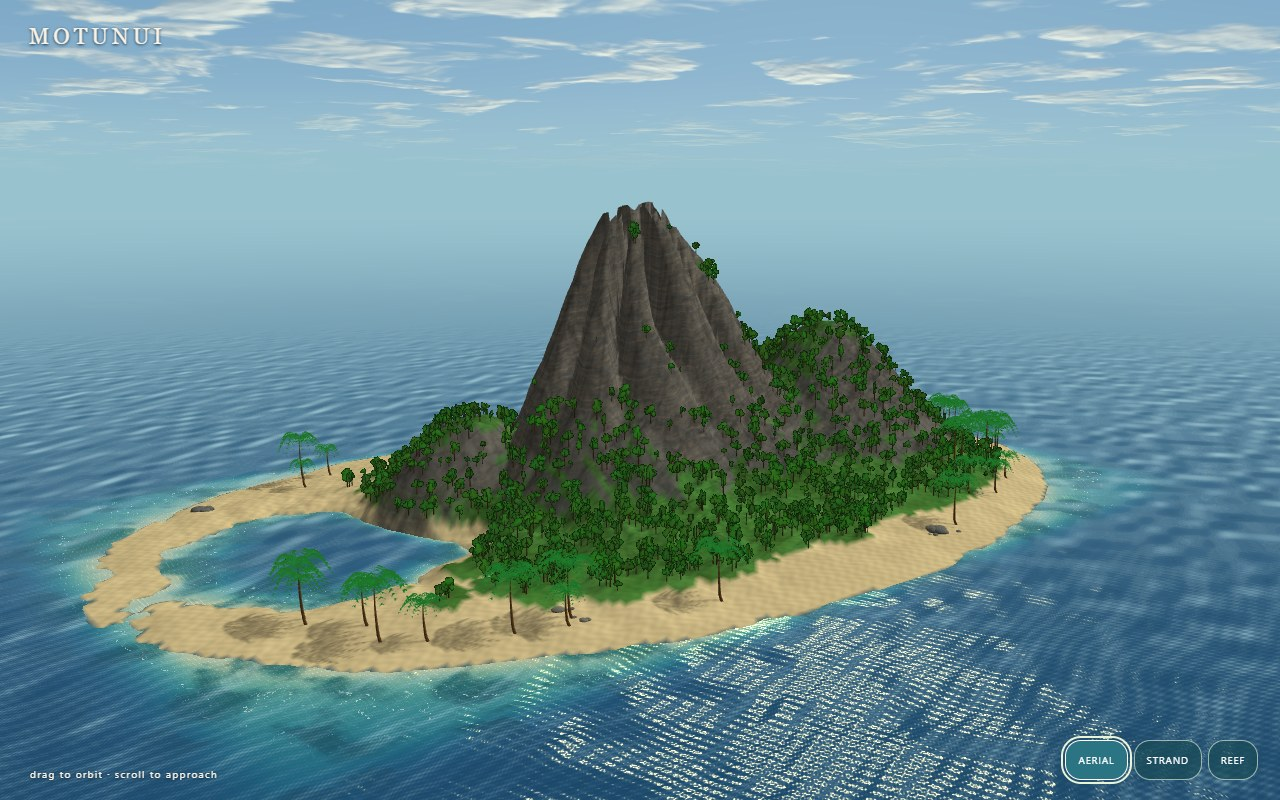
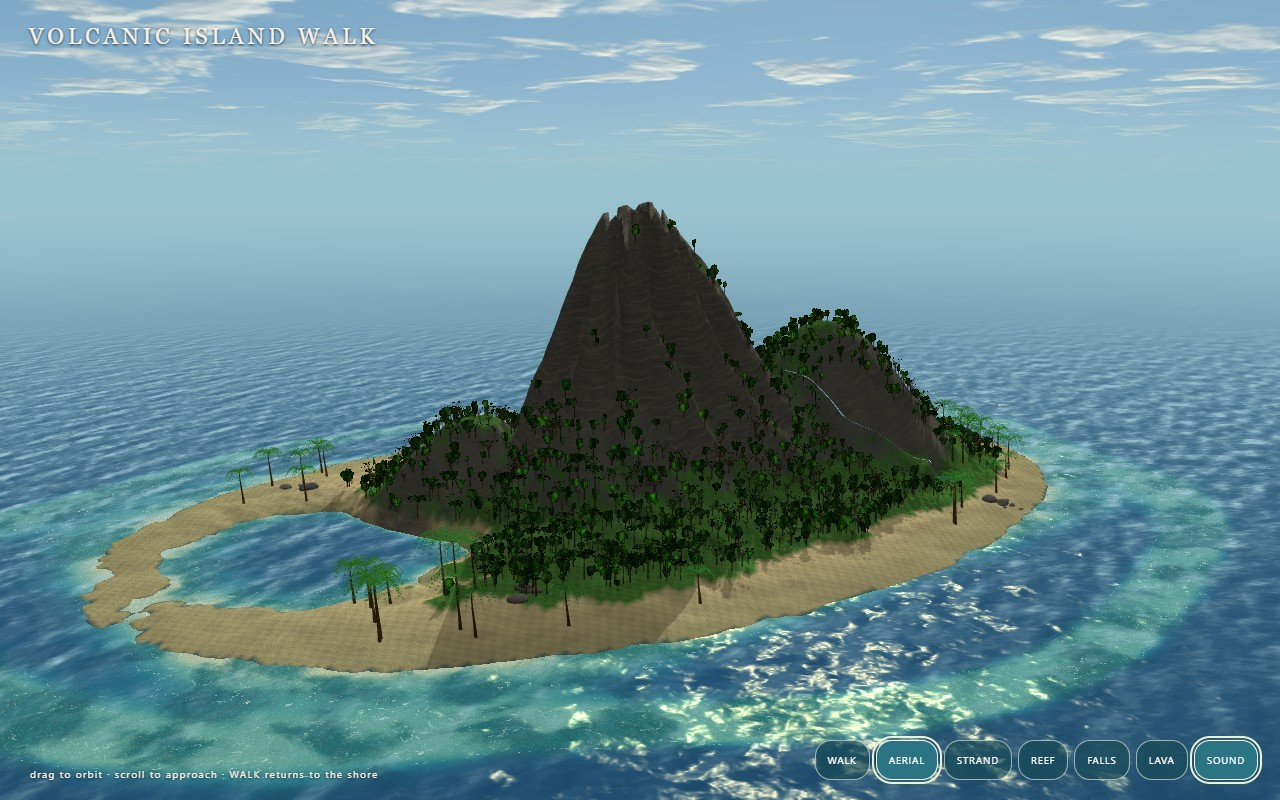
Repair island startup and ground the falls and lava in their terrain

diff --git a/experiments/procedural-demo/procedural-demo.html b/experiments/procedural-demo/procedural-demo.html
@@ -101,7 +101,9 @@
     background: #123;
     color: #fff;
     font: 16px system-ui;
+    z-index: 4;
   }
+  #loading { position:fixed; inset:0; display:grid; place-items:center; color:#f7f2e8; background:#286779; font:14px system-ui; letter-spacing:.12em; z-index:3; }
   @media (max-width: 560px), (pointer: coarse) {
     p {
       bottom: 76px;
@@ -134,13 +136,15 @@
   </nav>
   <div id="touch"><div class="pad" id="movePad">MOVE</div><div class="pad" id="lookPad">LOOK</div></div>
 </div>
-<div id="error">This island needs WebGL 2.</div>
+<div id="loading">Generating island…</div><div id="error">This island needs WebGL 2.</div>
 <script>
   (() => {
+    requestAnimationFrame(() => setTimeout(() => { try {
     const canvas = document.querySelector("canvas"),
       gl = canvas.getContext("webgl2", { antialias: true, depth: true }),
       error = document.querySelector("#error");
     if (!gl) {
+      document.querySelector("#loading").style.display = "none";
       error.style.display = "grid";
       return;
     }
@@ -199,11 +203,13 @@ layout(location=0)in vec3 p;layout(location=1)in vec2 uv;uniform mat4 lightM;out
     const shadowLeafF = `#version 300 es
 precision highp float;in vec2 vuv;uniform sampler2D atlas;void main(){if(texture(atlas,vuv).a<.35)discard;}`;
     const flowV = `#version 300 es
-precision highp float;layout(location=0)in vec3 p;layout(location=1)in vec3 uv;uniform mat4 m;out vec3 v;void main(){v=uv;gl_Position=m*vec4(p,1.);}`;
+precision highp float;layout(location=0)in vec3 p;layout(location=1)in vec3 uv;uniform mat4 m;out vec3 v;out vec3 world;void main(){v=uv;world=p;gl_Position=m*vec4(p,1.);}`;
     const flowF = `#version 300 es
-precision highp float;in vec3 v;uniform float t;out vec4 o;float h(vec2 p){return fract(sin(dot(p,vec2(127.1,311.7)))*43758.5);}float n(vec2 p){vec2 i=floor(p),f=fract(p);f=f*f*(3.-2.*f);return mix(mix(h(i),h(i+vec2(1,0)),f.x),mix(h(i+vec2(0,1)),h(i+1.),f.x),f.y);}void main(){float edge=smoothstep(0.,.12,v.y)*smoothstep(1.,.84,v.y);if(v.z<.5){float r=n(vec2(v.x*8.-t*1.8,v.y*13.+t*.35));vec3 c=mix(vec3(.05,.22,.26),vec3(.72,.95,1.),r*.75);o=vec4(c,edge*(.38+.48*r));}else{float plate=n(vec2(v.x*5.-t*.16,v.y*8.+t*.08));float crack=smoothstep(.63,.82,n(vec2(v.x*14.-t*.6,v.y*11.+t*.28)));vec3 crust=mix(vec3(.035,.018,.01),vec3(.18,.055,.018),plate);vec3 fire=mix(vec3(.9,.045,.005),vec3(1.,.72,.08),n(vec2(v.x*31.-t*1.6,v.y*17.)));o=vec4(mix(crust,fire,crack),edge);}}`;
+precision highp float;in vec3 v;in vec3 world;uniform float t;out vec4 o;
+float h(vec2 p){return fract(sin(dot(p,vec2(127.1,311.7)))*43758.5);}float n(vec2 p){vec2 i=floor(p),f=fract(p);f=f*f*(3.-2.*f);return mix(mix(h(i),h(i+vec2(1,0)),f.x),mix(h(i+vec2(0,1)),h(i+1.),f.x),f.y);}
+void main(){float edge=smoothstep(0.,.10,v.y)*smoothstep(1.,.90,v.y);float vein=n(vec2(v.x*8.-t*1.7,v.y*18.+t*.35));if(v.z<.5){vec3 c=mix(vec3(.025,.17,.18),vec3(.72,.94,.91),vein);o=vec4(c,edge*(.30+.42*vein));}else if(v.z<1.5){float plate=n(vec2(v.x*5.-t*.16,v.y*8.+t*.08));float crack=smoothstep(.67,.87,n(vec2(v.x*14.-t*.6,v.y*11.+t*.28)));vec3 crust=mix(vec3(.035,.018,.01),vec3(.18,.055,.018),plate);vec3 fire=mix(vec3(.9,.045,.005),vec3(1.,.72,.08),n(vec2(v.x*31.-t*1.6,v.y*17.)));o=vec4(mix(crust,fire,crack),edge);}else if(v.z<2.5){float thread=n(vec2(v.x*11.-t*2.6,v.y*31.+t*.45));float holes=smoothstep(.18,.38,n(vec2(v.x*5.+t*.12,v.y*9.)));vec3 c=mix(vec3(.34,.62,.63),vec3(.93,1.,.96),thread);o=vec4(c,edge*holes*(.18+.68*thread));}else if(v.z<3.5){vec2 impact=world.xz-vec2(-65.414,-47.414);float d=length(impact);float ripple=n(world.xz*2.7+vec2(t*.08,-t*.05));float foam=exp(-d*d*1.6)*smoothstep(.44,.71,n(impact*5.+t*.18));vec3 jade=mix(vec3(.012,.11,.105),vec3(.09,.31,.27),ripple);o=vec4(jade+vec3(.65,.78,.72)*foam,.80);}else{float a=n(world.xz*.55),b=n(world.xz*1.35+3.);float ropes=.55+.45*sin(world.x*4.2+world.z*1.8+6.*a)+.22*sin(world.z*8.-world.x*2.+b*5.);float crest=smoothstep(.64,.88,ropes);float crack=smoothstep(.90,.975,n(world.xz*1.7+vec2(t*.03,0.))+.18*ropes);vec3 rock=mix(vec3(.075,.075,.07),vec3(.34,.33,.30),crest*.72);rock+=vec3(.10)*pow(max(ropes,0.),9.);o=vec4(mix(rock,vec3(1.,.20,.018),crack*.48),1.);}}`;
     const spriteV = `#version 300 es
-precision highp float;layout(location=0)in vec4 p;layout(location=1)in vec3 c;uniform mat4 m;out vec3 col;void main(){col=c;gl_Position=m*vec4(p.xyz,1.);gl_PointSize=p.w;}`;
+precision highp float;layout(location=0)in vec4 p;layout(location=1)in vec3 c;uniform mat4 m;uniform vec2 viewport;uniform float tanHalfFov;out vec3 col;void main(){col=c;gl_Position=m*vec4(p.xyz,1.);gl_PointSize=p.w*viewport.y/(2.*tanHalfFov*max(.01,gl_Position.w));}`;
     const spriteF = `#version 300 es
 precision highp float;in vec3 col;out vec4 o;void main(){vec2 q=gl_PointCoord*2.-1.;float r=dot(q,q);float a=smoothstep(1.,.12,r)*(1.-.22*sin(q.x*13.+q.y*9.));if(a<.03)discard;o=vec4(col,a*.22);}`;
     let S, M, Q, F, PZ, SD, SDL;
@@ -217,6 +223,7 @@ precision highp float;in vec3 col;out vec4 o;void main(){vec2 q=gl_PointCoord*2.
       SDL = program(shadowLeafV, shadowLeafF);
     } catch (e) {
       error.textContent = "Shader error: " + e;
+      document.querySelector("#loading").style.display = "none";
       error.style.display = "grid";
       return;
     }
@@ -686,18 +693,6 @@ precision highp float;in vec3 col;out vec4 o;void main(){vec2 q=gl_PointCoord*2.
       gl.LINEAR_MIPMAP_LINEAR,
     );
     gl.texParameteri(gl.TEXTURE_2D, gl.TEXTURE_MAG_FILTER, gl.LINEAR);
-    const shadowCanvas = document.createElement("canvas");
-    shadowCanvas.width = 512;
-    shadowCanvas.height = 512;
-    const shadowInk = shadowCanvas.getContext("2d");
-    shadowInk.fillStyle = "#fff";
-    shadowInk.fillRect(0, 0, 512, 512);
-    const shadowTexture = gl.createTexture();
-    gl.bindTexture(gl.TEXTURE_2D, shadowTexture);
-    gl.texParameteri(gl.TEXTURE_2D, gl.TEXTURE_MIN_FILTER, gl.LINEAR);
-    gl.texParameteri(gl.TEXTURE_2D, gl.TEXTURE_MAG_FILTER, gl.LINEAR);
-    gl.texParameteri(gl.TEXTURE_2D, gl.TEXTURE_WRAP_S, gl.CLAMP_TO_EDGE);
-    gl.texParameteri(gl.TEXTURE_2D, gl.TEXTURE_WRAP_T, gl.CLAMP_TO_EDGE);
     let leafP = [],
       leafUV = [],
       leafC = [];
@@ -740,13 +735,14 @@ precision highp float;in vec3 col;out vec4 o;void main(){vec2 q=gl_PointCoord*2.
       }
     }
     function lowForestSprays(x, y, z, h, seed, tint) {
-      // Four forked limbs and sixteen small atlas clusters replace a single whole-tree card.
-      for (let branch = 0; branch < 4; branch++) {
-        let a = seed * .31 + branch * 1.57 + noise(seed, branch) * .45,
-          root = [x, y + h * (.35 + .045 * (branch & 1)), z],
-          tip = [x + Math.cos(a) * h * .20, y + h * (.62 + .07 * (branch % 3)), z + Math.sin(a) * h * .20];
+      // Five radial anchors across three layers form a continuous lowland canopy, not isolated gloves.
+      for (let branch = 0; branch < 5; branch++) {
+        let a = seed * .31 + branch * 1.257 + noise(seed, branch) * .32,
+          layer = branch % 3,
+          root = [x, y + h * (.31 + .10 * layer), z],
+          tip = [x + Math.cos(a) * h * (.23 + .04 * layer), y + h * (.59 + .08 * layer), z + Math.sin(a) * h * (.23 + .04 * layer)];
         woodSegment(root, tip, h * .022, h * .009, [.11,.063,.025]);
-        leafSpray(tip, h * (.82 + .08 * (branch & 1)), seed + branch * 19, tint);
+        leafSpray(tip, h * (.72 + .08 * layer), seed + branch * 19, tint);
       }
     }
     function broadleafTrunk(x, y, z, h) {
@@ -782,7 +778,7 @@ precision highp float;in vec3 col;out vec4 o;void main(){vec2 q=gl_PointCoord*2.
           tri(b, c, d);
         }
     }
-    let leafRoots = [], localTreeCount = 0;
+    let leafRoots = [], localTreeCount = 0, lowForestCount = 0;
     for (let i = 0; i < 14000 && leafRoots.length < 2200; i++) {
       let x = (R() - 0.5) * 245,
         z = (R() - 0.5) * 158,
@@ -806,7 +802,7 @@ precision highp float;in vec3 col;out vec4 o;void main(){vec2 q=gl_PointCoord*2.
       if (walkingForest) {
         localTreeCount++;
         oakWord(x, y, z, h, i);
-      } else if (y < 28) {
+      } else if (y < 28 && lowForestCount++ < 650) {
         lowForestSprays(x, y, z, h, i, c);
       } else {
         // Only the non-walkable/distant canopy keeps larger generated atlas impostors.
@@ -829,45 +825,6 @@ precision highp float;in vec3 col;out vec4 o;void main(){vec2 q=gl_PointCoord*2.
       let y = gridHeight(x,z);
       if (y > 1.5) oakWord(x,y,z,h,seed);
     }
-    for (const root of leafRoots) {
-      let x = (root[0] / 300 + 0.5) * 512 + root[3] * 0.42,
-        z = (root[1] / 200 + 0.5) * 512 + root[3] * 0.28;
-      shadowInk.save();
-      shadowInk.translate(x, z);
-      shadowInk.rotate(-0.55);
-      shadowInk.fillStyle = "rgba(18,37,21,.25)";
-      shadowInk.beginPath();
-      shadowInk.ellipse(0, 0, root[2] * 3.0, root[2] * 1.0, 0, 0, 6.283);
-      shadowInk.fill();
-      shadowInk.restore();
-    }
-    shadowInk.fillStyle = "rgba(19,30,16,.54)";
-    shadowInk.beginPath();
-    for (let i = 0; i < pP.length; i += 9) {
-      for (let k = 0; k < 3; k++) {
-        let x = pP[i + k * 3],
-          y = pP[i + k * 3 + 1],
-          z = pP[i + k * 3 + 2],
-          ground = H(x, z),
-          sx = x + ((y - ground) * 0.55) / 0.77,
-          sz = z + ((y - ground) * 0.33) / 0.77,
-          px = (sx / 300 + 0.5) * 512,
-          pz = (sz / 200 + 0.5) * 512;
-        if (k === 0) shadowInk.moveTo(px, pz);
-        else shadowInk.lineTo(px, pz);
-      }
-      shadowInk.closePath();
-    }
-    shadowInk.fill();
-    gl.bindTexture(gl.TEXTURE_2D, shadowTexture);
-    gl.texImage2D(
-      gl.TEXTURE_2D,
-      0,
-      gl.RGBA,
-      gl.RGBA,
-      gl.UNSIGNED_BYTE,
-      shadowCanvas,
-    );
     let boulderGroups = 0,
       boulderCount = 0,
       stoneRoots = [];
@@ -938,11 +895,24 @@ precision highp float;in vec3 col;out vec4 o;void main(){vec2 q=gl_PointCoord*2.
         boulderCount++;
       }
     }
-    // Wet basalt makes the fall read as a small grotto rather than a floating sheet.
-    for (const [x, z, rx, ry, rz] of [[-62.8,-45.0,1.7,1.25,1.15],[-66.9,-46.7,1.25,.9,1.45],[-65.4,-49.8,1.65,1.1,1.0],[-68.6,-48.6,.9,.75,1.1]]) {
-      boulder(x, z, H(x,z) - .12, rx, ry, rz, -.055);
-      stoneRoots.push([x,z,Math.max(rx,rz)+.22]); boulderCount++;
+    function basaltBlock(x,z,y,rx,ry,rz,seed) {
+      let first=pP.length/3,sides=6+(seed%2),turn=seed*.73;
+      for(let ring=0;ring<2;ring++)for(let i=0;i<sides;i++){
+        let a=turn+i*6.283/sides,w=.78+.22*noise(seed+i*3,ring+5),r=ring?1.:.92;
+        let px=x+Math.cos(a)*rx*w*r+(ring?.16*Math.sin(seed+i):0),pz=z+Math.sin(a)*rz*w*r+(ring?.13*Math.cos(seed+i*2):0),py=y+(ring?ry*(.84+.16*noise(seed,i)):0);
+        let col=ring?[.22+.08*noise(px,pz),.23+.08*noise(pz,px),.20+.055*noise(px+7,pz)]:[.11,.12,.11];
+        pv([px,py,pz],norm([Math.cos(a),ring?.32:.04,Math.sin(a)]),col);
+      }
+      for(let i=0;i<sides;i++){let j=(i+1)%sides,a=first+i,b=first+j,c=first+sides+i,d=first+sides+j;tri(a,c,b);tri(b,c,d);}
     }
+    function fernSpray(x,y,z,seed) {
+      for(let i=0;i<9;i++){let a=seed+i*.698,len=.28+.12*Math.sin(seed+i*3),rise=.10+.10*(i%3),base=[x,y+.02,z],mid=[x+Math.cos(a)*len*.46,y+rise,z+Math.sin(a)*len*.46],tip=[x+Math.cos(a)*len,y+rise*.35,z+Math.sin(a)*len],sx=-Math.sin(a)*len*.13,sz=Math.cos(a)*len*.13;let a0=pv(base,[0,1,0],[.05,.22,.035]),a1=pv([mid[0]+sx,mid[1],mid[2]+sz],[0,.8,0],[.08,.35,.05]),a2=pv([mid[0]-sx,mid[1]-.025,mid[2]-sz],[0,.7,0],[.04,.18,.025]),a3=pv(tip,[0,.6,0],[.07,.31,.04]);tri(a0,a1,a2);tri(a1,a3,a2);}
+    }
+    // Fractured basalt headwall in the falls' D/A frame, leaving the curtain against real blocks.
+    for (const [s,k,w,h] of [[-.45,-3.3,1.15,4.0],[-.30,-2.15,1.05,4.8],[-.22,-1.05,.9,3.7],[-.34,1.05,.95,4.4],[-.25,2.15,1.08,4.9],[-.42,3.35,1.25,3.8]]) {
+      let x=-64-.7071*s+.7071*k,z=-46-.7071*s-.7071*k; basaltBlock(x,z,3.64,w,h,w*.72,Math.round((s+6)*17+(k+5)*9)); stoneRoots.push([x,z,w+.2]); boulderCount++;
+    }
+    for(let i=0;i<8;i++){let a=i*.785,x=-66.97+Math.cos(a)*3.0,z=-48.97+Math.sin(a)*2.05,ground=gridHeight(x,z);if(ground>3.98)fernSpray(x,ground,z,i*3.1);}
     // A charcoal, folded apron contains the narrow lava outlet at the exposed beach.
     for (const [x, z, rx, ry, rz] of [[-17,76,2.8,.42,1.45],[-22,80,3.1,.38,1.6],[-18,83,2.5,.32,1.35],[-23,84,2.0,.28,1.2]]) {
       boulder(x, z, H(x,z) - .13, rx, ry, rz, -.12);
@@ -962,6 +932,10 @@ precision highp float;in vec3 col;out vec4 o;void main(){vec2 q=gl_PointCoord*2.
       let x = v[0] * Math.cos(yaw) - v[2] * Math.sin(yaw), z = v[0] * Math.sin(yaw) + v[2] * Math.cos(yaw);
       return norm([x, v[1] * Math.cos(tilt) - z * Math.sin(tilt), v[1] * Math.sin(tilt) + z * Math.cos(tilt)]);
     }
+    function forkDirection(v, azimuth, lift) {
+      let reference = Math.abs(v[1]) > .8 ? [1,0,0] : [0,1,0], side = norm(cross(v, reference)), up = norm(cross(side, v));
+      return norm([v[0]*.58 + (side[0]*Math.cos(azimuth)+up[0]*Math.sin(azimuth))*lift, v[1]*.58 + (side[1]*Math.cos(azimuth)+up[1]*Math.sin(azimuth))*lift, v[2]*.58 + (side[2]*Math.cos(azimuth)+up[2]*Math.sin(azimuth))*lift]);
+    }
     function oakWord(x, y, z, h, seed) {
       let buds = [{ p: [x, y + h * .42, z], v: [0, 1, 0], l: h * .30, d: h * .022 }];
       // Tropical adaptation of the Astra bracket grammar: F[+X][-X][&X][^X], three rewrites.
@@ -970,7 +944,7 @@ precision highp float;in vec3 col;out vec4 o;void main(){vec2 q=gl_PointCoord*2.
         for (let k = 0; k < buds.length; k++) {
           let bud = buds[k], end = [bud.p[0] + bud.v[0] * bud.l, bud.p[1] + bud.v[1] * bud.l, bud.p[2] + bud.v[2] * bud.l];
           woodSegment(bud.p, end, bud.d, bud.d * .56, [.13, .075, .028]);
-          for (let turn of [-.72,.72,-1.58,1.58]) next.push({ p: end, v: rotateAbout(bud.v, turn + .16 * noise(seed + k * 3, generation + 2), .28 + .18 * noise(seed + 8, k + turn)), l: bud.l * .55, d: bud.d * .51 });
+          for (let turn of [-.72,.72,-1.58,1.58]) next.push({ p: end, v: forkDirection(bud.v, turn + .16 * noise(seed + k * 3, generation + 2), .52 + .14 * noise(seed + 8, k + turn)), l: bud.l * .55, d: bud.d * .51 });
           if (generation === 2) {
             let tint = [.44 + .20 * noise(seed, k), .52 + .22 * noise(seed + 4, k), .27 + .13 * noise(seed + 7, k)];
             leafSpray(end, h, seed + k * 13, tint);
@@ -979,56 +953,30 @@ precision highp float;in vec3 col;out vec4 o;void main(){vec2 q=gl_PointCoord*2.
         buds = next;
       }
     }
-    function downhill(start, count, stride) {
-      let path = [[start[0], H(start[0], start[1]) + .08, start[1]]], x = start[0], z = start[1];
-      for (let step = 0; step < count; step++) {
-        let best = null;
-        for (let k = 0; k < 12; k++) {
-          let a = k * Math.PI / 6, nx = x + Math.cos(a) * stride, nz = z + Math.sin(a) * stride, h = H(nx, nz);
-          if (!best || h < best.h) best = { x: nx, z: nz, h };
-        }
-        if (best.h > H(x, z) - .05) break;
-        x = best.x; z = best.z; path.push([x, best.h + .08, z]);
-        if (best.h < -.15) break;
-      }
-      return path;
-    }
-    function pathRibbon(path, width, color, lift = .04) {
-      for (let i = 0; i < path.length - 1; i++) {
-        let a = path[i], b = path[i + 1], dx = b[0] - a[0], dz = b[2] - a[2], l = Math.hypot(dx, dz) || 1, sx = -dz / l * width, sz = dx / l * width;
-        let v = [
-          pv([a[0] + sx, a[1] + lift, a[2] + sz], [0,1,0], color), pv([a[0] - sx, a[1] + lift, a[2] - sz], [0,1,0], color),
-          pv([b[0] + sx, b[1] + lift, b[2] + sz], [0,1,0], color), pv([b[0] - sx, b[1] + lift, b[2] - sz], [0,1,0], color),
-        ]; tri(v[0],v[2],v[1]); tri(v[1],v[2],v[3]);
-      }
-    }
-    function toSea(start, end, count) {
-      let path = [];
-      for (let i = 0; i <= count; i++) {
-        let t = i / count, x = start[0] * (1-t) + end[0] * t, z = start[1] * (1-t) + end[1] * t;
-        path.push([x, gridHeight(x,z) + .10, z]);
-      }
-      return path;
-    }
     const lavaPath = [[-10,8],[-10,16],[-10,24],[-10,32],[-12,40],[-14,48],[-14,56],[-18,64],[-20,72],[-20,80],[-20,84]].map(([x,z])=>[x,gridHeight(x,z)+.10,z]),
       fallsPath = [[-42,-14],[-48,-30],[-56,-38],[-64,-46],[-66,-48],[-69,-51],[-72,-54]].map(([x,z])=>[x,gridHeight(x,z)+.10,z]);
     let flowP=[],flowUV=[],flowI=[];
     function flowVertex(p,u,v,id){flowP.push(...p);flowUV.push(u,v,id);return flowP.length/3-1;}
     function flowStrip(path,width,id){let last=[],distance=0;for(let s=0;s<path.length-1;s++){let a=path[s],b=path[s+1],dx=b[0]-a[0],dz=b[2]-a[2],len=Math.hypot(dx,dz),count=Math.max(2,Math.ceil(len/.42));for(let k=0;k<=count;k++){if(s&&k===0)continue;let f=k/count,x=a[0]*(1-f)+b[0]*f,z=a[2]*(1-f)+b[2]*f,y=gridHeight(x,z)+.13,w=width*(.76+.18*Math.sin((distance+len*f)*.43));let sx=-dz/len*w,sz=dx/len*w, row=[flowVertex([x+sx,y,z+sz],distance+len*f,0,id),flowVertex([x-sx,y,z-sz],distance+len*f,1,id)];if(last.length){flowI.push(last[0],row[0],last[1],last[1],row[0],row[1]);}last=row;}distance+=len;}}
-    flowStrip(lavaPath,.95,1);
     flowStrip(fallsPath.slice(0,4),.82,0);
-    let lip=fallsPath[3],pool=[lip[0]-1.0,3.0,lip[2]-1.0],start=flowP.length/3,rows=18,cols=8;
+    // A continuous, rough pāhoehoe apron widens across the last 18m of the shore.
+    let apronStart=flowP.length/3,apronRows=18,apronRails=15;
+    for(let r=0;r<=apronRows;r++)for(let c=0;c<=apronRails;c++){let f=r/apronRows,u=c/apronRails,w=1.0+4.6*f,side=(u-.5)*2*w,cz=66+18.5*f,cx=-18.2-2.0*f+side+.42*Math.sin(f*9.+u*5.);let heave=.11+.27*Math.max(0,1-Math.abs(u-.5)*2)*(.35+.65*noise(cx*.35,cz*.35));flowVertex([cx,gridHeight(cx,cz)+heave,cz],f,u,4);}
+    for(let r=0;r<apronRows;r++)for(let c=0;c<apronRails;c++){let a=apronStart+r*(apronRails+1)+c,b=a+1,d=a+apronRails+1,e=d+1;flowI.push(a,d,b,b,d,e);}
+    // Drape the brighter upstream channel after its cooled apron.
+    flowStrip(lavaPath,.95,1);
+    let lip=fallsPath[3],pool=[-64-.7071*4.2,3.9,-46-.7071*4.2],start=flowP.length/3,rows=18,cols=8;
     for(let r=0;r<=rows;r++)for(let c=0;c<=cols;c++){
       let v=r/rows,u=c/cols,w=2.2*(.78+.22*Math.sin(v*7.));
       // D=(-.707,-.707), A=(.707,-.707): a compact 1.4m forward plunge.
       let forward=1.42*v,x=lip[0]-.7071*forward+(u-.5)*w*.7071,z=lip[2]-.7071*forward-(u-.5)*w*.7071,y=lip[1]+(pool[1]-lip[1])*v*v;
-      flowVertex([x,y,z],v,u,0);
+      flowVertex([x,y,z],v,u,2);
     }
     for(let r=0;r<rows;r++)for(let c=0;c<cols;c++){let a=start+r*(cols+1)+c,b=a+1,d=a+cols+1,e=d+1;flowI.push(a,d,b,b,d,e);}
-    // Local jade plunge pool.  It is an actual triangulated surface, not a particle disc.
-    let poolCenter=flowVertex([pool[0],pool[1]+.025,pool[2]],0,.5,0), poolRing=[];
-    for(let i=0;i<18;i++){let a=i*Math.PI*2/18,rr=1+.12*Math.sin(a*3);poolRing.push(flowVertex([pool[0]+Math.cos(a)*2.15*rr,pool[1]+.02,pool[2]+Math.sin(a)*1.4*rr],a/6.283,.5,0));}
-    for(let i=0;i<18;i++)flowI.push(poolCenter,poolRing[i],poolRing[(i+1)%18]);
+    // A raised visible jade pool, aligned to the same downhill D/A frame as the grotto.
+    let poolCenter=flowVertex([pool[0],pool[1]+.025,pool[2]],0,.5,3), poolRing=[];
+    for(let i=0;i<24;i++){let a=i*Math.PI*2/24,rr=1+.12*Math.sin(a*3.);let ds=Math.cos(a)*3.4*rr,dk=Math.sin(a)*2.35*rr;poolRing.push(flowVertex([pool[0]-.7071*ds+.7071*dk,pool[1]+.02,pool[2]-.7071*ds-.7071*dk],a/6.283,.5,3));}
+    for(let i=0;i<poolRing.length;i++)flowI.push(poolCenter,poolRing[i],poolRing[(i+1)%poolRing.length]);
     const flowVAO=gl.createVertexArray();gl.bindVertexArray(flowVAO);
     for(const [data,loc,size] of [[flowP,0,3],[flowUV,1,3]]){let b=gl.createBuffer();gl.bindBuffer(gl.ARRAY_BUFFER,b);gl.bufferData(gl.ARRAY_BUFFER,new Float32Array(data),gl.STATIC_DRAW);gl.enableVertexAttribArray(loc);gl.vertexAttribPointer(loc,size,gl.FLOAT,false,0,0);}
     const flowIndex=gl.createBuffer();gl.bindBuffer(gl.ELEMENT_ARRAY_BUFFER,flowIndex);gl.bufferData(gl.ELEMENT_ARRAY_BUFFER,new Uint32Array(flowI),gl.STATIC_DRAW);
@@ -1204,7 +1152,7 @@ precision highp float;in vec3 col;out vec4 o;void main(){vec2 q=gl_PointCoord*2.
       },
       qU = { m: U(Q, "m"), atlas: U(Q, "atlas") },
       fU = { m: U(F, "m"), t: U(F, "t") },
-      zU = { m: U(PZ, "m") };
+      zU = { m: U(PZ, "m"), viewport: U(PZ,"viewport"), tanHalfFov: U(PZ,"tanHalfFov") };
     let V = [
         { T: [-4, 25, 0], a: -0.88, e: 0.18, d: 285 },
         { T: [-67, 4, -28], a: -2.78, e: 0.02, d: 102 },
@@ -1240,11 +1188,11 @@ precision highp float;in vec3 col;out vec4 o;void main(){vec2 q=gl_PointCoord*2.
     function enableSound() {
       if (!audio.ctx) {
         audio.ctx = new (window.AudioContext || window.webkitAudioContext)();
-        audio.master = audio.ctx.createGain(); audio.master.gain.value = .23; audio.master.connect(audio.ctx.destination);
-        for (const [pan, gain, cut, seed] of [[-.55,.018,420,331],[.5,.014,760,919]]) {
+        audio.master = audio.ctx.createGain(); audio.master.gain.value = .9; audio.master.connect(audio.ctx.destination);
+        for (const [pan, gain, cut, seed] of [[-.55,.060,420,331],[.5,.046,760,919]]) {
           let loop = noiseNode(2.4, gain, pan, cut, seed); loop.source.loop = true; loop.source.start();
         }
-        for (const [x,z,gain,cut,seed] of [[-64,-46,.075,1100,1741],[-20,84,.038,520,601]]) {
+        for (const [x,z,gain,cut,seed] of [[-64,-46,.20,1100,1741],[-20,84,.10,520,601]]) {
           let loop = noiseNode(1.8, 0, 0, cut, seed); loop.source.loop = true; loop.source.start();
           audio.spatial.push({ x, z, gain, amp: loop.amp, pan: loop.stereo });
         }
@@ -1258,7 +1206,7 @@ precision highp float;in vec3 col;out vec4 o;void main(){vec2 q=gl_PointCoord*2.
       burst.source.start(now); burst.source.stop(now + .36); audio.events++;
     }
     function toggleSound() {
-      let first = !audio.ctx; enableSound(); audio.muted = first ? false : !audio.muted; audio.master.gain.setTargetAtTime(audio.muted ? 0 : .23, audio.ctx.currentTime, .04);
+      let first = !audio.ctx; enableSound(); audio.muted = first ? false : !audio.muted; audio.master.gain.setTargetAtTime(audio.muted ? 0 : .9, audio.ctx.currentTime, .04);
       document.querySelector('[data-view="mute"]').setAttribute("aria-pressed", String(!audio.muted));
     }
     function updateAudio() {
@@ -1444,11 +1392,11 @@ precision highp float;in vec3 col;out vec4 o;void main(){vec2 q=gl_PointCoord*2.
       gl.useProgram(F); gl.uniformMatrix4fv(fU.m,false,m); gl.uniform1f(fU.t,t*.001); gl.bindVertexArray(flowVAO); gl.drawElements(gl.TRIANGLES,flowI.length,gl.UNSIGNED_INT,0);
       let sp=[],sc=[],time=t*.001,vent=lavaPath[lavaPath.length-1],lipNow=lip,poolNow=pool;
       // Steam begins at the real sea-level contact and disperses in a low onshore drift.
-      for(let i=0;i<54;i++){let p=(time*.16+i*.173)%1,x=vent[0]+Math.sin(i*4.7+p*5)*(.18+p*.65),z=vent[2]+Math.cos(i*3.1+p*4)*(.16+p*.48),y=Math.max(.04,vent[1])+.12+p*2.15;sp.push(x,y,z,5+p*10);sc.push(.70,.72,.66);}
+      for(let i=0;i<82;i++){let p=(time*.13+i*.173)%1,x=vent[0]+Math.sin(i*4.7+p*5)*(.18+p*1.05),z=vent[2]+.12+p*1.35+Math.cos(i*3.1+p*4)*(.16+p*.62),y=Math.max(.04,vent[1])+.08+p*(1.1+p*.9);sp.push(x,y,z,.18+p*.72);sc.push(.70,.72,.66);}
       // Spray is tied to the short curtain and its pool: no elevated column above the lip.
-      for(let i=0;i<38;i++){let p=(time*.82+i*.23)%1,side=Math.sin(i*2.1)*(.15+.25*p),forward=1.42*p,x=lipNow[0]-.7071*forward+side*.7071,z=lipNow[2]-.7071*forward-side*.7071,y=lipNow[1]+(poolNow[1]-lipNow[1])*p*p + Math.sin((p+i)*9.)*.04;sp.push(x,y,z,5+(i%4)*2);sc.push(.68,.89,.92);}
-      for(let i=0;i<22;i++){let p=(time*.48+i*.37)%1,a=i*2.4,x=poolNow[0]+Math.cos(a)*(.35+p*1.35),z=poolNow[2]+Math.sin(a)*(.3+p*.9),y=poolNow[1]+.08+p*(.45-p*.28);sp.push(x,y,z,6+p*9);sc.push(.78,.93,.94);}
-      gl.bindVertexArray(spriteVAO);gl.bindBuffer(gl.ARRAY_BUFFER,spritePos);gl.bufferData(gl.ARRAY_BUFFER,new Float32Array(sp),gl.DYNAMIC_DRAW);gl.bindBuffer(gl.ARRAY_BUFFER,spriteCol);gl.bufferData(gl.ARRAY_BUFFER,new Float32Array(sc),gl.DYNAMIC_DRAW);gl.useProgram(PZ);gl.uniformMatrix4fv(zU.m,false,m);gl.drawArrays(gl.POINTS,0,sp.length/4);
+      for(let i=0;i<52;i++){let p=(time*.82+i*.23)%1,side=Math.sin(i*2.1)*(.12+.32*p),forward=1.42*p,x=lipNow[0]-.7071*forward+side*.7071,z=lipNow[2]-.7071*forward-side*.7071,y=lipNow[1]+(poolNow[1]-lipNow[1])*p*p + Math.sin((p+i)*9.)*.04;sp.push(x,y,z,.10+(i%4)*.045);sc.push(.68,.89,.92);}
+      for(let i=0;i<38;i++){let p=(time*.62+i*.173)%1,seed=Math.sin(i*91.7)*43758.5,u=seed-Math.floor(seed),a=(seed*7.3-Math.floor(seed*7.3))*6.283,r=Math.sqrt(u)*(.12+.55*p),ix=-65.414,iz=-47.414,x=ix+Math.cos(a)*r,z=iz+Math.sin(a)*r,y=poolNow[1]+.05+p*(.36-p*.22);sp.push(x,y,z,.025+(i%5)*.011);sc.push(.78,.93,.94);}
+      gl.bindVertexArray(spriteVAO);gl.bindBuffer(gl.ARRAY_BUFFER,spritePos);gl.bufferData(gl.ARRAY_BUFFER,new Float32Array(sp),gl.DYNAMIC_DRAW);gl.bindBuffer(gl.ARRAY_BUFFER,spriteCol);gl.bufferData(gl.ARRAY_BUFFER,new Float32Array(sc),gl.DYNAMIC_DRAW);gl.useProgram(PZ);gl.uniformMatrix4fv(zU.m,false,m);gl.uniform2f(zU.viewport,canvas.width,canvas.height);gl.uniform1f(zU.tanHalfFov,tanHalfFov);gl.drawArrays(gl.POINTS,0,sp.length/4);
       gl.depthMask(true);gl.disable(gl.BLEND);
       gl.useProgram(Q);
       gl.uniformMatrix4fv(qU.m, false, m);
@@ -1457,6 +1405,7 @@ precision highp float;in vec3 col;out vec4 o;void main(){vec2 q=gl_PointCoord*2.
       gl.uniform1i(qU.atlas, 0);
       gl.bindVertexArray(leafVAO);
       gl.drawArrays(gl.TRIANGLES, 0, leafCount);
+      document.querySelector("#loading").style.display = "none";
       requestAnimationFrame(draw);
     }
     requestAnimationFrame(draw);
@@ -1575,5 +1524,6 @@ precision highp float;in vec3 col;out vec4 o;void main(){vec2 q=gl_PointCoord*2.
         setWalk();
       },
     };
+    } catch (e) { const panel=document.querySelector("#error"); panel.textContent="Island failed to generate: "+e; panel.style.display="grid"; document.querySelector("#loading").style.display="none"; console.error(e); } }, 0));
   })();
 </script>
